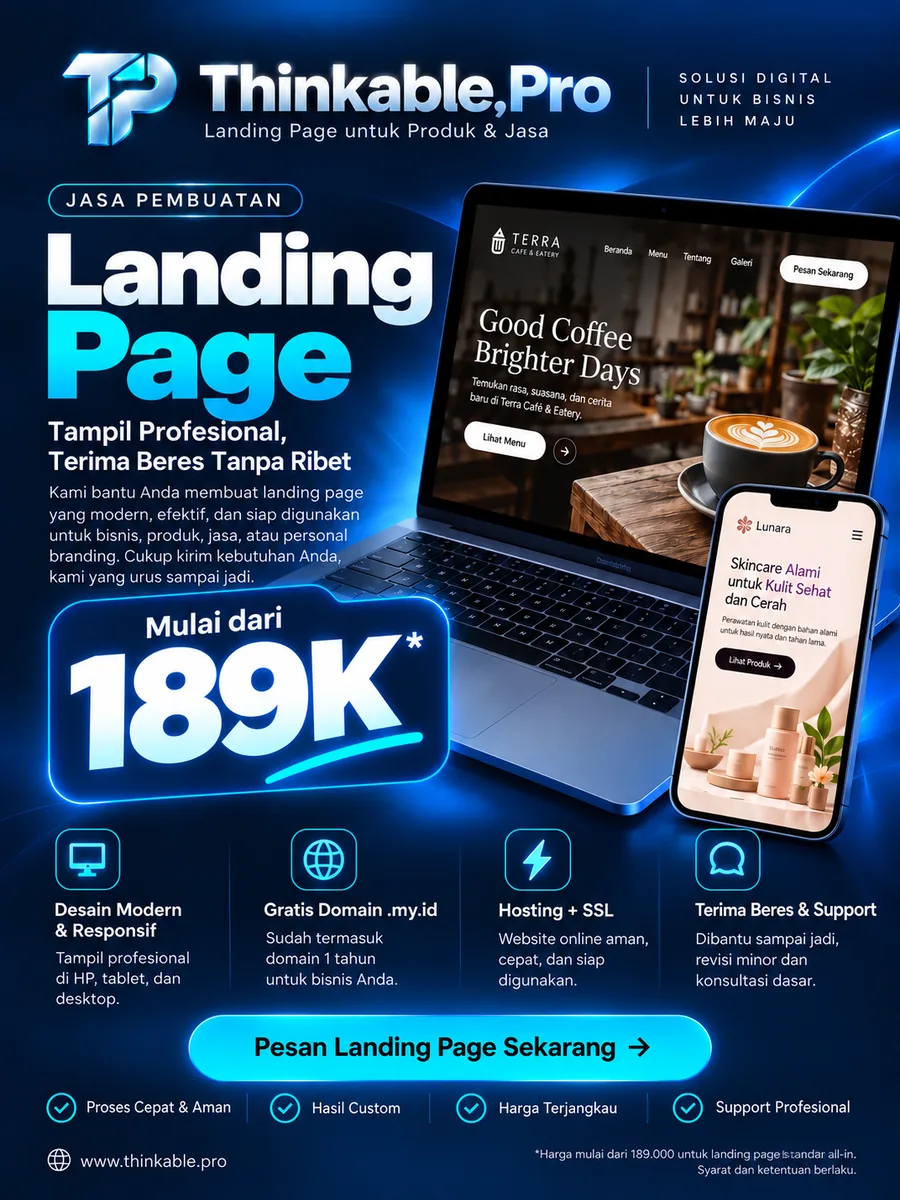
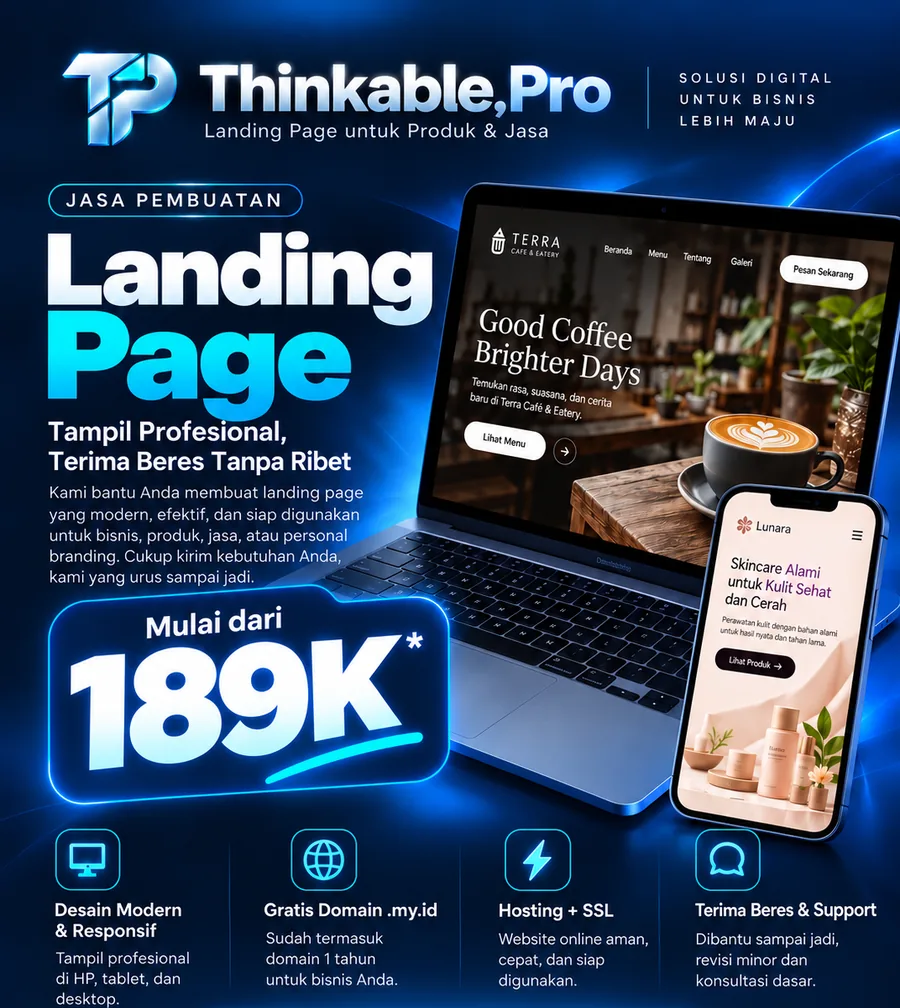
Paket: dua kartu sama tinggi + poster 189K jadi kartu penuh
- Kartu Profesional Rp189.000 sekarang punya harga, fitur, dan tombol sendiri (sebelumnya cuma poster + caption)
- Grid pakai align-items:stretch dan tombol menempel bawah, jadi tinggi dua kartu identik
- Poster 189K dipotong di batas akhir baris fitur, poster 99K di batas sebelum blok headline (tidak ada teks kepotong)
- Rasio dua poster disamakan supaya tinggi gambarnya nyaris sama

diff --git a/style.css b/style.css
@@ -1,8 +1,9 @@
-:root{--bg:#030d21;--surface:#09192f;--text:#f2f6ff;--muted:#a7b7ce;--cyan:#04d9f3;--line:#21334d}*{box-sizing:border-box}html{scroll-behavior:smooth;scroll-padding-top:95px}body{margin:0;background:var(--bg);color:var(--text);font-family:Arial,Helvetica,sans-serif;line-height:1.6}a{color:inherit;text-decoration:none}button,input,select,textarea{font:inherit}a,button,input,select,textarea,summary{-webkit-tap-highlight-color:transparent}a:focus-visible,button:focus-visible,input:focus-visible,select:focus-visible,textarea:focus-visible,summary:focus-visible{outline:3px solid var(--cyan);outline-offset:5px}.wrap{max-width:1180px;margin:auto;width:calc(100% - 80px)}.header{height:90px;display:flex;align-items:center;justify-content:space-between;padding:0 40px;border-bottom:1px solid var(--line);max-width:1440px;margin:auto}.brand{display:flex;align-items:center;gap:10px;font-size:23px;font-weight:800;letter-spacing:-1px}.brand img{object-fit:cover;border-radius:8px}.cyan,.text-link{color:var(--cyan)}nav{display:flex;gap:28px;font-size:14px;color:var(--muted)}nav a:hover{color:white}.button{display:inline-flex;align-items:center;justify-content:center;gap:22px;background:var(--cyan);color:#031323;border:1px solid var(--cyan);border-radius:7px;padding:15px 22px;font-weight:700;font-size:15px;cursor:pointer;transition:transform .2s,background .2s}.button:hover{transform:translateY(-2px);background:#65eeff}.button.secondary{background:transparent;border-color:#405975;color:var(--text)}.button.secondary:hover{border-color:var(--cyan);color:var(--cyan)}.button.small{padding:10px 16px;font-size:13px}.hero{min-height:720px;display:grid;grid-template-columns:1.15fr 1fr;align-items:center;gap:50px;padding-top:60px;padding-bottom:70px;background:radial-gradient(ellipse at 90% 50%,#063c704f,transparent 65%)}.eyebrow{font-size:11px;letter-spacing:2.5px;font-weight:700;color:var(--cyan);margin:0 0 24px}.dot{display:inline-block;height:7px;width:7px;border-radius:50%;background:var(--cyan);margin-right:6px;box-shadow:0 0 12px var(--cyan)}h1{font-size:clamp(36px,4vw,54px);line-height:1.06;letter-spacing:-2.5px;margin:0 0 26px}h2{font-size:clamp(30px,3.4vw,44px);line-height:1.15;letter-spacing:-1.5px;margin:0 0 22px}.gradient{background:linear-gradient(110deg,#91f6ff,#04d9f3 45%,#477bff);-webkit-background-clip:text;background-clip:text;color:transparent}.lead{font-size:17px;max-width:470px;color:var(--muted)}.actions{display:flex;flex-wrap:wrap;gap:12px;margin-top:30px}.micro{font-size:12px;color:var(--muted);margin-top:18px}.micro span{margin:0 8px;color:var(--cyan)}.hero-art{position:relative;max-width:390px;justify-self:end;transform:rotate(2deg);padding:12px;border:1px solid #244f79;border-radius:14px;background:#07172d;box-shadow:0 0 75px #006cff20}.hero-art img{width:100%;height:auto;display:block;border-radius:5px}.art-label{font-size:9px;letter-spacing:3px;margin:1px 0 10px;color:#bed5eb}.floating{position:absolute;left:-42px;bottom:35px;display:flex;gap:14px;align-items:center;background:#0c2238ed;backdrop-filter:blur(12px);padding:15px 23px;border:1px solid #346086;border-radius:9px;transform:rotate(-2deg);font-size:12px;box-shadow:0 12px 25px #0006}.floating>span{font-size:30px}.strip{border-block:1px solid var(--line);background:#07162a}.strip .wrap{display:flex;justify-content:space-between;gap:20px;padding-block:24px;font-size:10px;letter-spacing:2px;color:#b5c9df}.section{padding-top:100px;padding-bottom:35px}.section-heading{max-width:680px}.section-heading>p:last-child,.showcase p,.terms>div>p:last-child,.consultation>div>p{color:var(--muted)}.features{display:grid;grid-template-columns:repeat(3,1fr);gap:40px;margin-top:48px}.features article{border-top:1px solid var(--line);padding-top:25px}.icon{font-size:28px;color:var(--cyan)}h3{font-size:19px;line-height:1.35}.features p{font-size:14px;color:var(--muted);max-width:300px}.showcase{margin-top:65px;display:grid;grid-template-columns:1fr 1fr;align-items:center;gap:45px;padding:32px;background:var(--surface);border:1px solid var(--line);border-radius:12px}.showcase img{width:100%;height:auto}.showcase h2{font-size:28px}.showcase p{font-size:14px}.text-link{font-size:14px;font-weight:700}.pricing{display:grid;grid-template-columns:repeat(3,1fr);gap:18px;margin-top:50px}.pricing.paket-grid{grid-template-columns:minmax(0,1fr) minmax(0,0.9fr);justify-content:stretch;align-items:start;gap:24px}.paket-showcase{margin:0;display:flex;flex-direction:column;gap:12px;border:1px solid var(--line);border-radius:10px;padding:14px;background:linear-gradient(150deg,#10213a,#071426)}.paket-poster{display:block;border-radius:8px;overflow:hidden;line-height:0;transition:transform .2s}.paket-poster:hover{transform:translateY(-2px)}.paket-poster img{width:100%;height:auto;display:block}.paket-showcase figcaption{margin:0}.paket-showcase .tier{margin:0 0 6px;color:var(--cyan)}.paket-showcase figcaption p:last-child{margin:0;font-size:12px;line-height:1.55;color:var(--muted)}.price-card{--pad-y:32px;--pad-x:26px;position:relative;border:1px solid var(--line);background:linear-gradient(150deg,#10213a,#071426);border-radius:10px;padding:var(--pad-y) var(--pad-x);display:flex;flex-direction:column;overflow:hidden}.price-card.featured{border-color:#00d7f4;box-shadow:0 0 30px #00bbff10}.tag{position:absolute;top:-14px;left:18px;background:var(--cyan);color:var(--bg);padding:5px 10px;border-radius:4px;font-size:9px;font-weight:800;letter-spacing:1px}.tier{font-size:12px;letter-spacing:2px;color:var(--cyan)}.price-visual{display:block;line-height:0;margin:calc(var(--pad-y) * -1) calc(var(--pad-x) * -1) 22px;border-bottom:1px solid var(--line);transition:transform .25s ease, filter .25s ease;overflow:hidden}
+:root{--bg:#030d21;--surface:#09192f;--text:#f2f6ff;--muted:#a7b7ce;--cyan:#04d9f3;--line:#21334d}*{box-sizing:border-box}html{scroll-behavior:smooth;scroll-padding-top:95px}body{margin:0;background:var(--bg);color:var(--text);font-family:Arial,Helvetica,sans-serif;line-height:1.6}a{color:inherit;text-decoration:none}button,input,select,textarea{font:inherit}a,button,input,select,textarea,summary{-webkit-tap-highlight-color:transparent}a:focus-visible,button:focus-visible,input:focus-visible,select:focus-visible,textarea:focus-visible,summary:focus-visible{outline:3px solid var(--cyan);outline-offset:5px}.wrap{max-width:1180px;margin:auto;width:calc(100% - 80px)}.header{height:90px;display:flex;align-items:center;justify-content:space-between;padding:0 40px;border-bottom:1px solid var(--line);max-width:1440px;margin:auto}.brand{display:flex;align-items:center;gap:10px;font-size:23px;font-weight:800;letter-spacing:-1px}.brand img{object-fit:cover;border-radius:8px}.cyan,.text-link{color:var(--cyan)}nav{display:flex;gap:28px;font-size:14px;color:var(--muted)}nav a:hover{color:white}.button{display:inline-flex;align-items:center;justify-content:center;gap:22px;background:var(--cyan);color:#031323;border:1px solid var(--cyan);border-radius:7px;padding:15px 22px;font-weight:700;font-size:15px;cursor:pointer;transition:transform .2s,background .2s}.button:hover{transform:translateY(-2px);background:#65eeff}.button.secondary{background:transparent;border-color:#405975;color:var(--text)}.button.secondary:hover{border-color:var(--cyan);color:var(--cyan)}.button.small{padding:10px 16px;font-size:13px}.hero{min-height:720px;display:grid;grid-template-columns:1.15fr 1fr;align-items:center;gap:50px;padding-top:60px;padding-bottom:70px;background:radial-gradient(ellipse at 90% 50%,#063c704f,transparent 65%)}.eyebrow{font-size:11px;letter-spacing:2.5px;font-weight:700;color:var(--cyan);margin:0 0 24px}.dot{display:inline-block;height:7px;width:7px;border-radius:50%;background:var(--cyan);margin-right:6px;box-shadow:0 0 12px var(--cyan)}h1{font-size:clamp(36px,4vw,54px);line-height:1.06;letter-spacing:-2.5px;margin:0 0 26px}h2{font-size:clamp(30px,3.4vw,44px);line-height:1.15;letter-spacing:-1.5px;margin:0 0 22px}.gradient{background:linear-gradient(110deg,#91f6ff,#04d9f3 45%,#477bff);-webkit-background-clip:text;background-clip:text;color:transparent}.lead{font-size:17px;max-width:470px;color:var(--muted)}.actions{display:flex;flex-wrap:wrap;gap:12px;margin-top:30px}.micro{font-size:12px;color:var(--muted);margin-top:18px}.micro span{margin:0 8px;color:var(--cyan)}.hero-art{position:relative;max-width:390px;justify-self:end;transform:rotate(2deg);padding:12px;border:1px solid #244f79;border-radius:14px;background:#07172d;box-shadow:0 0 75px #006cff20}.hero-art img{width:100%;height:auto;display:block;border-radius:5px}.art-label{font-size:9px;letter-spacing:3px;margin:1px 0 10px;color:#bed5eb}.floating{position:absolute;left:-42px;bottom:35px;display:flex;gap:14px;align-items:center;background:#0c2238ed;backdrop-filter:blur(12px);padding:15px 23px;border:1px solid #346086;border-radius:9px;transform:rotate(-2deg);font-size:12px;box-shadow:0 12px 25px #0006}.floating>span{font-size:30px}.strip{border-block:1px solid var(--line);background:#07162a}.strip .wrap{display:flex;justify-content:space-between;gap:20px;padding-block:24px;font-size:10px;letter-spacing:2px;color:#b5c9df}.section{padding-top:100px;padding-bottom:35px}.section-heading{max-width:680px}.section-heading>p:last-child,.showcase p,.terms>div>p:last-child,.consultation>div>p{color:var(--muted)}.features{display:grid;grid-template-columns:repeat(3,1fr);gap:40px;margin-top:48px}.features article{border-top:1px solid var(--line);padding-top:25px}.icon{font-size:28px;color:var(--cyan)}h3{font-size:19px;line-height:1.35}.features p{font-size:14px;color:var(--muted);max-width:300px}.showcase{margin-top:65px;display:grid;grid-template-columns:1fr 1fr;align-items:center;gap:45px;padding:32px;background:var(--surface);border:1px solid var(--line);border-radius:12px}.showcase img{width:100%;height:auto}.showcase h2{font-size:28px}.showcase p{font-size:14px}.text-link{font-size:14px;font-weight:700}.pricing{display:grid;grid-template-columns:repeat(3,1fr);gap:18px;margin-top:50px}.pricing.paket-grid{grid-template-columns:minmax(0,1fr) minmax(0,1fr);justify-content:stretch;align-items:stretch;gap:24px}.price-card{--pad-y:32px;--pad-x:26px;position:relative;border:1px solid var(--line);background:linear-gradient(150deg,#10213a,#071426);border-radius:10px;padding:var(--pad-y) var(--pad-x);display:flex;flex-direction:column;overflow:hidden}.price-card.featured{border-color:#00d7f4;box-shadow:0 0 30px #00bbff10}.tag{position:absolute;top:-14px;left:18px;background:var(--cyan);color:var(--bg);padding:5px 10px;border-radius:4px;font-size:9px;font-weight:800;letter-spacing:1px}.tier{font-size:12px;letter-spacing:2px;color:var(--cyan)}.price-visual{display:block;line-height:0;margin:calc(var(--pad-y) * -1) calc(var(--pad-x) * -1) 22px;border-bottom:1px solid var(--line);transition:transform .25s ease, filter .25s ease;overflow:hidden}
 .price-visual:hover{filter:brightness(1.06)}
 .price-visual img{width:100%;height:auto;display:block}
 .price-visual:focus-visible{outline:3px solid var(--cyan);outline-offset:-3px}
-.price-card h3{font-size:38px;letter-spacing:-1.5px;margin:10px 0}.price-card>p:not(.tier){color:var(--muted);font-size:13px;min-height:62px}.price-card ul{list-style:none;padding:20px 0;margin:10px 0 22px;border-top:1px solid var(--line);font-size:13px;flex:1}.price-card li{margin:12px 0}.price-card li:before{content:'✓';color:var(--cyan);margin-right:10px}.price-note{display:flex;justify-content:space-between;align-items:center;gap:35px;margin-top:25px}.price-note p{max-width:550px;font-size:12px;color:var(--muted)}.price-note .button{font-size:13px}.process{display:grid;grid-template-columns:1fr 1.2fr;gap:80px}.process ol{counter-reset:step;list-style:none;margin:0;padding:0}.process li{counter-increment:step;position:relative;padding:0 0 25px 55px;border-bottom:1px solid var(--line);margin-bottom:25px}.process li:before{content:'0' counter(step);position:absolute;left:0;color:var(--cyan);font-size:18px}.process p{color:var(--muted);font-size:14px;margin-bottom:0}.terms{display:grid;grid-template-columns:1fr 1.3fr;gap:60px}details{border-bottom:1px solid var(--line);padding:19px 0}summary{cursor:pointer;font-size:15px;font-weight:700}details p{font-size:13px;color:var(--muted);padding-right:20px}.consultation{margin-top:90px;padding:55px;display:grid;grid-template-columns:1fr 1fr;gap:60px;background:linear-gradient(90deg,#071c37b3,#06152be8),url('assets/background.png') center/cover;border:1px solid #284e72;border-radius:14px}.consultation h2{font-size:38px}.consultation p{font-size:14px}.contact-note{margin-top:35px}form{display:flex;flex-direction:column;gap:8px}label{font-size:12px;color:#c7d9ef;margin-top:4px}input,select,textarea{color:var(--text);background:#041123;border:1px solid #344860;border-radius:5px;padding:11px;min-width:0;width:100%;font-size:14px}textarea{resize:vertical}form .button{margin-top:12px;width:100%}form .micro{margin:3px 0;font-size:10px}#form-status{font-size:13px;color:var(--cyan)}[hidden]{display:none!important}footer{display:flex;justify-content:space-between;align-items:center;padding-block:45px;font-size:12px;color:var(--muted)}footer .brand{font-size:18px;color:white}.mobile-cta{display:none}@media(min-width:1450px){.hero{min-height:800px}}@media(max-width:950px){.wrap{width:calc(100% - 40px)}.header{padding:0 20px}nav{gap:14px}.hero{gap:25px}.hero-art{max-width:320px}.floating{left:-15px}.pricing{gap:10px}.price-card{--pad-y:26px;--pad-x:18px;padding:26px 18px}.price-card h3{font-size:30px}.consultation{padding:30px;gap:30px}.consultation h2{font-size:32px}.terms,.process{gap:35px}}@media(max-width:680px){html{scroll-padding-top:20px}.header{height:75px}.header nav{display:none}.header .button{padding:8px;font-size:10px}.brand{font-size:19px;gap:5px}.brand img{width:35px;height:35px}.hero{grid-template-columns:1fr;padding-top:45px;gap:40px;padding-bottom:55px}.hero h1{font-size:clamp(21px,5.6vw,30px);letter-spacing:-2px}.lead{font-size:15px}.hero-art{justify-self:center;max-width:300px;transform:rotate(1deg)}.hero-copy .eyebrow{font-size:9px;letter-spacing:1.6px}.strip .wrap{display:grid;grid-template-columns:1fr 1fr;font-size:8px;gap:15px}.section{padding-top:65px;padding-bottom:10px}.features,.pricing,.showcase,.terms,.process,.consultation{grid-template-columns:1fr}.features{gap:15px;margin-top:30px}.features p{max-width:none}.showcase{padding:24px;gap:24px;margin-top:40px}.pricing{gap:30px;margin-top:38px}.price-card{--pad-y:30px;--pad-x:30px;padding:30px}.price-card h3{font-size:38px}.price-card>p:not(.tier){min-height:0}.price-note{align-items:stretch;flex-direction:column;gap:10px}.process{gap:20px}.terms{gap:10px}.consultation{padding:25px;margin-top:60px;gap:25px}.consultation h2{font-size:32px}.contact-note{margin-top:15px}footer{padding-bottom:110px;align-items:flex-start;gap:15px;flex-direction:column}.mobile-cta{position:fixed;display:flex;bottom:12px;left:20px;right:20px;z-index:10;box-shadow:0 0 0 12px #030d21ee;padding-bottom:calc(15px + env(safe-area-inset-bottom))}.actions .button{font-size:13px;padding:13px 16px}}@media(prefers-reduced-motion:reduce){html{scroll-behavior:auto}*{transition:none!important}}
+.price-card h3{font-size:38px;letter-spacing:-1.5px;margin:10px 0}.price-card>p:not(.tier){color:var(--muted);font-size:13px;min-height:62px}.price-card ul{list-style:none;padding:20px 0;margin:10px 0 22px;border-top:1px solid var(--line);font-size:13px;flex:1}
+.price-card .button{margin-top:auto}.price-card li{margin:12px 0}.price-card li:before{content:'✓';color:var(--cyan);margin-right:10px}.price-note{display:flex;justify-content:space-between;align-items:center;gap:35px;margin-top:25px}.price-note p{max-width:550px;font-size:12px;color:var(--muted)}.price-note .button{font-size:13px}.process{display:grid;grid-template-columns:1fr 1.2fr;gap:80px}.process ol{counter-reset:step;list-style:none;margin:0;padding:0}.process li{counter-increment:step;position:relative;padding:0 0 25px 55px;border-bottom:1px solid var(--line);margin-bottom:25px}.process li:before{content:'0' counter(step);position:absolute;left:0;color:var(--cyan);font-size:18px}.process p{color:var(--muted);font-size:14px;margin-bottom:0}.terms{display:grid;grid-template-columns:1fr 1.3fr;gap:60px}details{border-bottom:1px solid var(--line);padding:19px 0}summary{cursor:pointer;font-size:15px;font-weight:700}details p{font-size:13px;color:var(--muted);padding-right:20px}.consultation{margin-top:90px;padding:55px;display:grid;grid-template-columns:1fr 1fr;gap:60px;background:linear-gradient(90deg,#071c37b3,#06152be8),url('assets/background.png') center/cover;border:1px solid #284e72;border-radius:14px}.consultation h2{font-size:38px}.consultation p{font-size:14px}.contact-note{margin-top:35px}form{display:flex;flex-direction:column;gap:8px}label{font-size:12px;color:#c7d9ef;margin-top:4px}input,select,textarea{color:var(--text);background:#041123;border:1px solid #344860;border-radius:5px;padding:11px;min-width:0;width:100%;font-size:14px}textarea{resize:vertical}form .button{margin-top:12px;width:100%}form .micro{margin:3px 0;font-size:10px}#form-status{font-size:13px;color:var(--cyan)}[hidden]{display:none!important}footer{display:flex;justify-content:space-between;align-items:center;padding-block:45px;font-size:12px;color:var(--muted)}footer .brand{font-size:18px;color:white}.mobile-cta{display:none}@media(min-width:1450px){.hero{min-height:800px}}@media(max-width:950px){.wrap{width:calc(100% - 40px)}.header{padding:0 20px}nav{gap:14px}.hero{gap:25px}.hero-art{max-width:320px}.floating{left:-15px}.pricing{gap:10px}.price-card{--pad-y:26px;--pad-x:18px;padding:26px 18px}.price-card h3{font-size:30px}.consultation{padding:30px;gap:30px}.consultation h2{font-size:32px}.terms,.process{gap:35px}}@media(max-width:680px){html{scroll-padding-top:20px}.header{height:75px}.header nav{display:none}.header .button{padding:8px;font-size:10px}.brand{font-size:19px;gap:5px}.brand img{width:35px;height:35px}.hero{grid-template-columns:1fr;padding-top:45px;gap:40px;padding-bottom:55px}.hero h1{font-size:clamp(21px,5.6vw,30px);letter-spacing:-2px}.lead{font-size:15px}.hero-art{justify-self:center;max-width:300px;transform:rotate(1deg)}.hero-copy .eyebrow{font-size:9px;letter-spacing:1.6px}.strip .wrap{display:grid;grid-template-columns:1fr 1fr;font-size:8px;gap:15px}.section{padding-top:65px;padding-bottom:10px}.features,.pricing,.showcase,.terms,.process,.consultation{grid-template-columns:1fr}.features{gap:15px;margin-top:30px}.features p{max-width:none}.showcase{padding:24px;gap:24px;margin-top:40px}.pricing{gap:30px;margin-top:38px}.price-card{--pad-y:30px;--pad-x:30px;padding:30px}.price-card h3{font-size:38px}.price-card>p:not(.tier){min-height:0}.price-note{align-items:stretch;flex-direction:column;gap:10px}.process{gap:20px}.terms{gap:10px}.consultation{padding:25px;margin-top:60px;gap:25px}.consultation h2{font-size:32px}.contact-note{margin-top:15px}footer{padding-bottom:110px;align-items:flex-start;gap:15px;flex-direction:column}.mobile-cta{position:fixed;display:flex;bottom:12px;left:20px;right:20px;z-index:10;box-shadow:0 0 0 12px #030d21ee;padding-bottom:calc(15px + env(safe-area-inset-bottom))}.actions .button{font-size:13px;padding:13px 16px}}@media(prefers-reduced-motion:reduce){html{scroll-behavior:auto}*{transition:none!important}}
 
 /* Fokus penawaran Starter */
 .pricing{grid-template-columns:minmax(0,560px);justify-content:start}.price-card>p:not(.tier){min-height:0}

diff --git a/index.html b/index.html
@@ -22,7 +22,7 @@ fbq('track', 'PageView');
 <section class="wrap section" id="layanan"><div class="section-heading"><p class="eyebrow">01 / DIRANCANG UNTUK BISNIS KAMU</p><h2>Bukan sekadar tampil.<br>Bantu pengunjung mengambil langkah.</h2><p>Pesan yang mudah dipahami, tampilan yang konsisten, dan ajakan menghubungi yang mudah ditemukan.</p></div><div class="features"><article><span class="icon">▣</span><h3>Nyaman di setiap layar</h3><p>Tampilan responsif untuk ponsel, tablet, dan desktop.</p></article><article><span class="icon">✎</span><h3>Identitas yang terasa</h3><p>Warna, materi, dan informasi disesuaikan dengan arah bisnis kamu.</p></article><article><span class="icon">↗</span><h3>Arah tindakan yang jelas</h3><p>Tombol konsultasi dan alur kontak membantu pengunjung melanjutkan percakapan.</p></article></div></section>
 <section class="showcase wrap"><img src="assets/banner.png" alt="Identitas Thinkable.pro dengan logo TP, warna navy dan cahaya cyan" width="2048" height="682" loading="lazy"><div><p class="eyebrow">SATU HALAMAN. SATU TUJUAN.</p><h2>Produk lebih mudah dipahami.<br>Bisnis lebih mudah dihubungi.</h2><p>Untuk katalog singkat, profil usaha, penawaran jasa, atau portofolio pribadi—mulai dari hal yang ingin kamu kenalkan.</p><a class="text-link" href="https://wa.me/6287895582152?text=Halo%20Fira%2C%20aku%20mau%20konsultasi%20landing%20page%20untuk%20bisnis%20%2F%20personal%20branding%20dong.">Ceritakan kebutuhan kamu ↗</a></div></section>
 
-<section class="wrap section" id="paket"><div class="section-heading"><p class="eyebrow">02 / PILIH LANGKAH PERTAMAMU</p><h2>Tampilan premium.<br><span class="gradient">Harga tetap masuk akal.</span></h2><p>Mulai dari paket Starter untuk bisnis atau personal branding. Cakupan pekerjaan dan biaya akhir disepakati sebelum pengerjaan.</p></div><div class="pricing paket-grid"><article class="price-card"><!-- ===== VISUAL PAKET STARTER (klik -> WhatsApp) ===== --><a class="price-visual" href="https://wa.me/6287895582152?text=Halo%20Fira%2C%20aku%20mau%20konsultasi%20landing%20page%20untuk%20bisnis%20%2F%20personal%20branding%20dong." target="_blank" rel="noopener noreferrer" aria-label="Tanya paket landing page Rp99.000 lewat WhatsApp"><img src="assets/paket-99k.webp" alt="Promo jasa editing landing page Rp99.000 dari Thinkable.pro: kenalkan bisnis lewat satu halaman yang rapi dan mudah dihubungi" width="900" height="1200" loading="lazy" decoding="async"></a><!-- ===== /VISUAL ===== --><p class="tier">STARTER</p><h3>Rp99.000</h3><p>Untuk kamu yang sudah punya domain dan hosting sendiri.</p><ul><li>Editing landing page standar</li><li>Penyesuaian materi bisnis / profil diri</li><li>Tampilan responsif</li><li>Domain & hosting dari klien</li></ul><a class="button secondary" href="https://wa.me/6287895582152?text=Halo%20Fira%2C%20aku%20mau%20konsultasi%20landing%20page%20untuk%20bisnis%20%2F%20personal%20branding%20dong.">Pilih Starter ↗</a></article><!-- ===== ETALASE PAKET PROFESIONAL (poster) — MULAI ===== --><figure class="paket-showcase"><a class="paket-poster" href="https://wa.me/6287895582152?text=Halo%20Fira%2C%20aku%20mau%20konsultasi%20landing%20page%20untuk%20bisnis%20%2F%20personal%20branding%20dong." target="_blank" rel="noopener noreferrer" aria-label="Tanya paket landing page profesional mulai Rp189.000 lewat WhatsApp"><img src="assets/paket-189k.webp" alt="Penawaran paket landing page profesional mulai Rp189.000: desain modern dan responsif, gratis domain .my.id 1 tahun, hosting + SSL, terima beres dan support" width="900" height="1200" loading="lazy" decoding="async"></a><figcaption><p class="tier">PAKET PROFESIONAL · MULAI Rp189.000</p><p>All-in: domain .my.id 1 tahun, hosting + SSL, desain modern &amp; responsif, dibantu sampai jadi. Harga mulai dari Rp189.000 untuk landing page standar all-in — syarat dan ketentuan berlaku.</p></figcaption></figure><!-- ===== ETALASE PAKET PROFESIONAL (poster) — SELESAI ===== --></div><div class="price-note"><p>Harga paket bukan janji domain atau hosting gratis selamanya. Rincian domain, pengelolaan hosting, revisi, dan masa layanan dikonfirmasi dalam penawaran.</p><a class="button" href="https://wa.me/6287895582152?text=Halo%20Fira%2C%20aku%20mau%20konsultasi%20landing%20page%20untuk%20bisnis%20%2F%20personal%20branding%20dong.">Bahas kebutuhanmu — Konsultasi Gratis ↗</a></div></section>
+<section class="wrap section" id="paket"><div class="section-heading"><p class="eyebrow">02 / PILIH LANGKAH PERTAMAMU</p><h2>Tampilan premium.<br><span class="gradient">Harga tetap masuk akal.</span></h2><p>Mulai dari paket Starter untuk bisnis atau personal branding. Cakupan pekerjaan dan biaya akhir disepakati sebelum pengerjaan.</p></div><div class="pricing paket-grid"><article class="price-card"><!-- ===== VISUAL PAKET STARTER (klik -> WhatsApp) ===== --><a class="price-visual" href="https://wa.me/6287895582152?text=Halo%20Fira%2C%20aku%20mau%20konsultasi%20landing%20page%20untuk%20bisnis%20%2F%20personal%20branding%20dong." target="_blank" rel="noopener noreferrer" aria-label="Tanya paket landing page Rp99.000 lewat WhatsApp"><img src="assets/paket-99k.webp" alt="Promo jasa editing landing page Rp99.000 dari Thinkable.pro: kenalkan bisnis lewat satu halaman yang rapi dan mudah dihubungi" width="900" height="980" loading="lazy" decoding="async"></a><!-- ===== /VISUAL ===== --><p class="tier">STARTER</p><h3>Rp99.000</h3><p>Untuk kamu yang sudah punya domain dan hosting sendiri.</p><ul><li>Editing landing page standar</li><li>Penyesuaian materi bisnis / profil diri</li><li>Tampilan responsif</li><li>Domain & hosting dari klien</li></ul><a class="button secondary" href="https://wa.me/6287895582152?text=Halo%20Fira%2C%20aku%20mau%20konsultasi%20landing%20page%20untuk%20bisnis%20%2F%20personal%20branding%20dong.">Pilih Starter ↗</a></article><!-- ===== KARTU PAKET PROFESIONAL (Rp189.000) — MULAI ===== --><article class="price-card price-card-pro"><a class="price-visual" href="https://wa.me/6287895582152?text=Halo%20Fira%2C%20aku%20mau%20konsultasi%20landing%20page%20untuk%20bisnis%20%2F%20personal%20branding%20dong." target="_blank" rel="noopener noreferrer" aria-label="Tanya paket landing page profesional Rp189.000 lewat WhatsApp"><img src="assets/paket-189k.webp" alt="Penawaran paket landing page profesional mulai Rp189.000: desain modern dan responsif, gratis domain .my.id 1 tahun, hosting + SSL, terima beres dan support" width="900" height="1008" loading="lazy" decoding="async"></a><p class="tier">PROFESIONAL</p><h3>Rp189.000</h3><p>All-in untuk kamu yang belum punya domain atau hosting sendiri.</p><ul><li>Desain modern &amp; responsif</li><li>Gratis domain .my.id 1 tahun</li><li>Hosting + SSL</li><li>Dibantu sampai jadi, revisi minor &amp; konsultasi dasar</li></ul><a class="button secondary" href="https://wa.me/6287895582152?text=Halo%20Fira%2C%20aku%20mau%20konsultasi%20landing%20page%20untuk%20bisnis%20%2F%20personal%20branding%20dong." target="_blank" rel="noopener noreferrer">Pilih Profesional ↗</a></article><!-- ===== KARTU PAKET PROFESIONAL (Rp189.000) — SELESAI ===== --></div><div class="price-note"><p>Harga paket bukan janji domain atau hosting gratis selamanya. Rincian domain, pengelolaan hosting, revisi, dan masa layanan dikonfirmasi dalam penawaran.</p><a class="button" href="https://wa.me/6287895582152?text=Halo%20Fira%2C%20aku%20mau%20konsultasi%20landing%20page%20untuk%20bisnis%20%2F%20personal%20branding%20dong.">Bahas kebutuhanmu — Konsultasi Gratis ↗</a></div></section>
 <section class="wrap section" id="personal-branding"><div class="section-heading"><p class="eyebrow">BISNIS LEBIH TERHUBUNG. POTENSI DIRI LEBIH TERLIHAT.</p><h2>Tampil profesional.<br><span class="gradient">Bangun kesan yang kredibel.</span></h2><p>Satukan informasi penting dalam satu tautan yang mudah dibagikan ke pelanggan, calon klien, atau perekrut.</p></div><div class="features"><article><span class="icon">✦</span><h3>Kesan pertama yang profesional</h3><p>Profil yang rapi, informasi yang jelas, dan tampilan konsisten membantu orang memahami siapa kamu dan apa yang kamu tawarkan.</p></article><article><span class="icon">◎</span><h3>Personal branding lebih kuat</h3><p>Tunjukkan keahlian, pengalaman, dan karya pilihanmu. Bagikan tautannya di CV, profil profesional, atau lamaran kerja.</p></article><article><span class="icon">↗</span><h3>Bantu peluangmu saat interview</h3><p>Beri perekrut bukti konkret tentang kemampuanmu dan gunakan portofolio sebagai bahan cerita saat interview. Ini membantu kamu tampil lebih siap dan menonjol; hasil seleksi tetap bergantung pada kecocokan dan penilaian perusahaan.</p></article></div><div class="actions"><a class="button" href="https://wa.me/6287895582152?text=Halo%20Fira%2C%20aku%20mau%20konsultasi%20landing%20page%20untuk%20bisnis%20%2F%20personal%20branding%20dong.">Konsultasi Gratis untuk Profilmu ↗</a></div></section>
 <section class="process wrap section"><div><p class="eyebrow">03 / ALUR YANG SEDERHANA</p><h2>Dari ide,<br>jadi halaman bisnis.</h2></div><ol><li><strong>Ceritakan kebutuhan</strong><p>Diskusikan jenis usaha, tujuan halaman, dan paket yang sesuai.</p></li><li><strong>Sepakati detailnya</strong><p>Konfirmasi materi, cakupan, revisi, jadwal, serta biaya domain dan hosting.</p></li><li><strong>Review, lalu tayang</strong><p>Periksa hasil bersama sebelum website diunggah ke hosting yang disepakati.</p></li></ol></section>
 <section class="wrap section terms" id="ketentuan"><div><p class="eyebrow">04 / JELAS SEJAK AWAL</p><h2>Tanpa biaya<br>yang bikin menebak.</h2><p>Semua komponen biaya harus jelas sebelum kamu memutuskan.</p></div><div class="faqs"><details open><summary>Apakah domain sudah termasuk?</summary><p>Starter Rp99.000 ditujukan untuk klien yang memiliki domain dan hosting sendiri. Jika belum punya domain atau hosting, konsultasikan kebutuhan dan biaya tambahannya terlebih dahulu. Jenis domain, ketersediaan nama, biaya registrasi, serta masa aktif dikonfirmasi dalam penawaran. Jangan menganggap domain termasuk sebelum ada kesepakatan tertulis.</p></details><details><summary>Bagaimana biaya hosting dan pengelolaannya?</summary><p>Website berupa HTML, CSS, dan JavaScript statis untuk Cloudflare Pages. Biaya layanan platform dan biaya pengelolaan oleh Thinkable.pro merupakan komponen berbeda. Jika ada biaya pengelolaan, nominal, masa layanan, dan cakupannya disepakati terlebih dahulu.</p></details><details><summary>Bagaimana perpanjangan domain dan layanan?</summary><p>Domain memiliki masa aktif. Harga perpanjangan dapat berbeda dari harga promo registrasi. Nominal, tanggal jatuh tempo, penanggung jawab pembayaran, dan layanan hosting atau pengelolaan yang berulang harus diinformasikan sebelum pemesanan.</p></details><details><summary>Berapa revisi dan lama pengerjaannya?</summary><p>Jumlah revisi, jadwal pengerjaan, materi yang perlu disiapkan, pembayaran, dan biaya perubahan di luar cakupan ditetapkan dalam penawaran sebelum pengerjaan dimulai.</p></details><details><summary>Apakah ada jaminan penjualan atau peringkat Google?</summary><p>Landing page membantu menyampaikan informasi dan mengarahkan kontak. Hasil penjualan, jumlah pengunjung, dan peringkat pencarian tidak dijamin. Website ini tidak mencakup toko online, pembayaran, atau sistem akun kecuali disepakati terpisah.</p></details></div></section>
